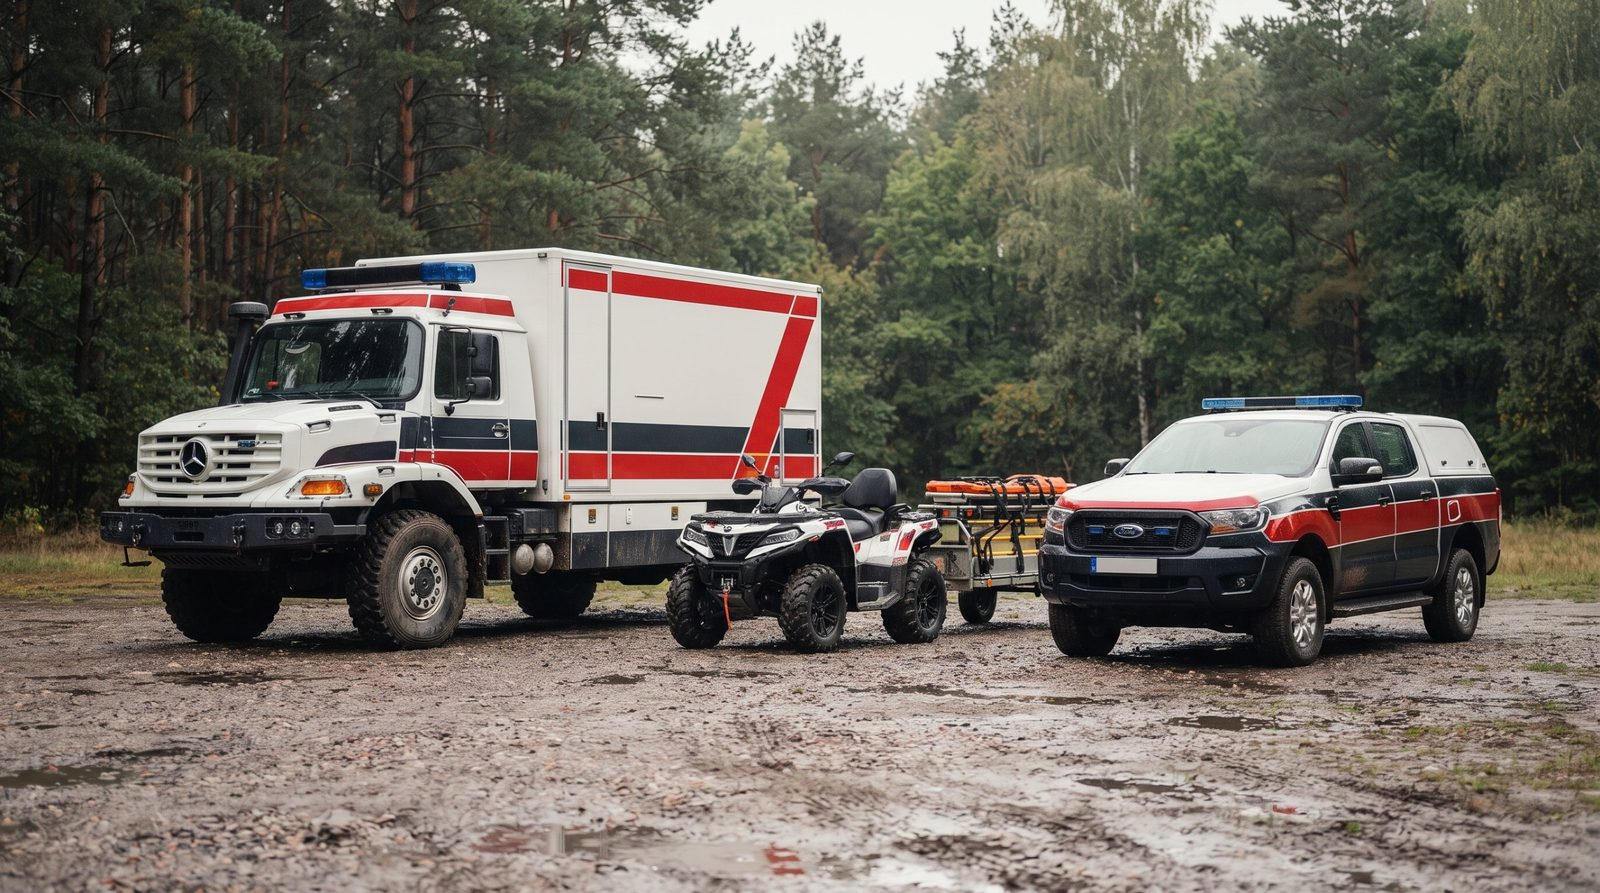
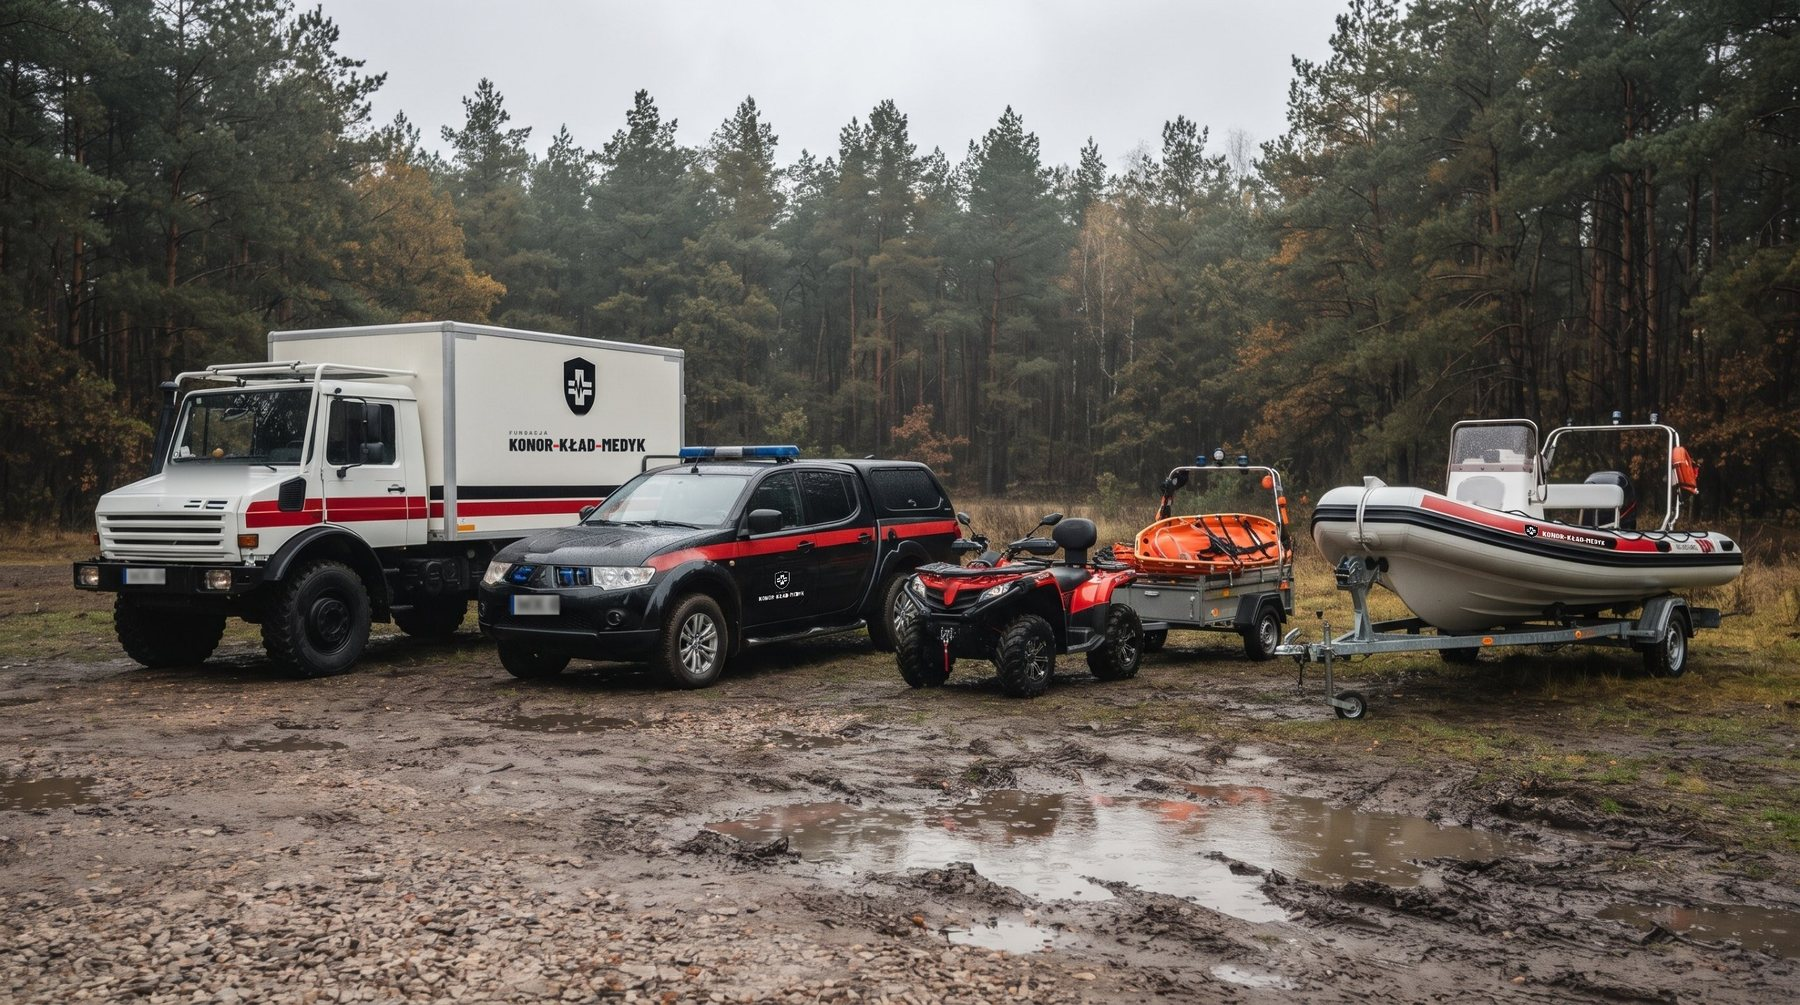
Nowe zdjęcia: karetka, wnętrze, pojazdy + dyskretne oznaczenie AI (podgląd, czeka na akceptację)
Claude-Session: https://claude.ai/code/session_01HMmEH39F33PDF7rDVMyxHn

diff --git a/szablon/index.html b/szablon/index.html
@@ -255,7 +255,7 @@ Inna kwota
 
 <!-- Priorytet -->
 <article style="background: #101215; color: #FFFFFF; border-radius: 22px; overflow: hidden; display: flex; flex-wrap: wrap;">
-<div style="flex: 1 1 480px; min-width: 0; min-height: clamp(260px, 62vw, 440px); position: relative;"><img src="{{karetka.zdjecie}}" alt="{{karetka.opis_zdjecia}}" style="position: absolute; inset: 0; width: 100%; height: 100%; object-fit: cover; object-position: 45% 55%; display: block;">{{#karetka.podpis_zdjecia}}<span style="position: absolute; left: 16px; bottom: 16px; font-size: 12px; font-weight: 700; letter-spacing: 0.08em; text-transform: uppercase; padding: 6px 10px; border-radius: 6px; background: rgba(16,18,21,0.72); color: #FFFFFF;">{{karetka.podpis_zdjecia}}</span>{{/karetka.podpis_zdjecia}}</div>
+<div style="flex: 1 1 480px; min-width: 0; min-height: clamp(260px, 62vw, 440px); position: relative;"><img src="{{karetka.zdjecie}}" alt="{{karetka.opis_zdjecia}}" style="position: absolute; inset: 0; width: 100%; height: 100%; object-fit: cover; object-position: 45% 55%; display: block;">{{#karetka.podpis_zdjecia}}<span style="position: absolute; right: 10px; bottom: 8px; font-size: 10px; font-weight: 500; letter-spacing: 0.02em; padding: 2px 6px; border-radius: 4px; background: rgba(16,18,21,0.38); color: rgba(255,255,255,0.82);">{{karetka.podpis_zdjecia}}</span>{{/karetka.podpis_zdjecia}}</div>
 <div style="flex: 1 1 400px; min-width: 0; padding: 40px; display: flex; flex-direction: column; gap: 18px;">
 <span style="align-self: flex-start; font-size: 13px; font-weight: 700; letter-spacing: 0.1em; text-transform: uppercase; padding: 6px 12px; border-radius: 6px; background: #FFD21F; color: #101215;">Priorytet</span>
 <h3 style="margin: 0; font-family: 'Barlow Condensed', sans-serif; font-weight: 800; font-size: 42px; line-height: 0.98; text-transform: uppercase;">{{karetka.tytul}}</h3>
@@ -284,7 +284,7 @@ Inna kwota
 <span style="font-size: 14px; color: #4D535C;">{{karetka.netto}}</span>
 </div>
 </div>
-{{#karetka.wnetrze_zdjecie}}<figure style="margin: 0; display: flex; flex-direction: column; gap: 10px;"><img src="{{karetka.wnetrze_zdjecie}}" alt="{{karetka.wnetrze_opis}}" loading="lazy" style="display: block; width: 100%; height: clamp(220px, 34vw, 420px); object-fit: cover; object-position: 50% 60%; border-radius: 16px;">{{#karetka.wnetrze_podpis}}<figcaption style="font-size: 14px; line-height: 1.5; color: #4D535C;">{{karetka.wnetrze_podpis}}</figcaption>{{/karetka.wnetrze_podpis}}</figure>{{/karetka.wnetrze_zdjecie}}
+{{#karetka.wnetrze_zdjecie}}<figure style="margin: 0; display: flex; flex-direction: column; gap: 10px;"><img src="{{karetka.wnetrze_zdjecie}}" alt="{{karetka.wnetrze_opis}}" loading="lazy" style="display: block; width: 100%; height: clamp(220px, 34vw, 420px); object-fit: cover; object-position: 50% 60%; border-radius: 16px;">{{#karetka.wnetrze_podpis}}<figcaption style="font-size: 11px; line-height: 1.4; color: #8F959D; text-align: right;">{{karetka.wnetrze_podpis}}</figcaption>{{/karetka.wnetrze_podpis}}</figure>{{/karetka.wnetrze_zdjecie}}
 <div style="display: grid; grid-template-columns: repeat(auto-fit, minmax(300px, 1fr)); gap: 18px;">{{#karetka.kosztorys}}
 
 <div style="border-radius: 16px; background: #F4F3EF; padding: 24px; display: flex; flex-direction: column; gap: 14px;">
@@ -311,7 +311,7 @@ Inna kwota
 <div style="display: grid; grid-template-columns: repeat(auto-fit, minmax(220px, 1fr)); gap: 18px;">{{#potrzeby.karty}}
 
 <article style="background: #FFFFFF; border-radius: 20px; padding: 28px; display: flex; flex-direction: column; gap: 16px;">
-{{#zdjecie}}<div style="position: relative;"><img src="{{zdjecie}}" alt="{{opis_zdjecia}}" style="display: block; width: 100%; height: 200px; {{#zdjecie_w_calosci}}object-fit: contain; background: #FFFFFF;{{/zdjecie_w_calosci}}{{^zdjecie_w_calosci}}object-fit: cover;{{/zdjecie_w_calosci}} border-radius: 12px;">{{#podpis_zdjecia}}<span style="position: absolute; left: 10px; bottom: 10px; font-size: 11px; font-weight: 700; letter-spacing: 0.08em; text-transform: uppercase; padding: 5px 8px; border-radius: 6px; background: rgba(16,18,21,0.72); color: #FFFFFF;">{{podpis_zdjecia}}</span>{{/podpis_zdjecia}}</div>{{/zdjecie}}{{^zdjecie}}<div style="height: 200px; border-radius: 12px; background: #F4F3EF; display: flex; align-items: center; justify-content: center;"><svg width="88" height="88" viewBox="0 0 24 24" fill="none" stroke="#D41F2B" stroke-width="1.3" stroke-linecap="round" stroke-linejoin="round" aria-hidden="true"><path d="M2 17V7h11v10"></path><path d="M13 10h4l4 4v3h-8"></path><circle cx="6.5" cy="17.5" r="1.8"></circle><circle cx="17" cy="17.5" r="1.8"></circle><path d="M7.5 9.5v4"></path><path d="M5.5 11.5h4"></path></svg></div>{{/zdjecie}}
+{{#zdjecie}}<div style="position: relative;"><img src="{{zdjecie}}" alt="{{opis_zdjecia}}" style="display: block; width: 100%; height: 200px; {{#zdjecie_w_calosci}}object-fit: contain; background: #FFFFFF;{{/zdjecie_w_calosci}}{{^zdjecie_w_calosci}}object-fit: cover;{{/zdjecie_w_calosci}} border-radius: 12px;">{{#podpis_zdjecia}}<span style="position: absolute; right: 10px; bottom: 8px; font-size: 10px; font-weight: 500; letter-spacing: 0.02em; padding: 2px 6px; border-radius: 4px; background: rgba(16,18,21,0.38); color: rgba(255,255,255,0.82);">{{podpis_zdjecia}}</span>{{/podpis_zdjecia}}</div>{{/zdjecie}}{{^zdjecie}}<div style="height: 200px; border-radius: 12px; background: #F4F3EF; display: flex; align-items: center; justify-content: center;"><svg width="88" height="88" viewBox="0 0 24 24" fill="none" stroke="#D41F2B" stroke-width="1.3" stroke-linecap="round" stroke-linejoin="round" aria-hidden="true"><path d="M2 17V7h11v10"></path><path d="M13 10h4l4 4v3h-8"></path><circle cx="6.5" cy="17.5" r="1.8"></circle><circle cx="17" cy="17.5" r="1.8"></circle><path d="M7.5 9.5v4"></path><path d="M5.5 11.5h4"></path></svg></div>{{/zdjecie}}
 <h3 style="margin: 0; font-family: 'Barlow Condensed', sans-serif; font-weight: 800; font-size: 28px; text-transform: uppercase;">{{tytul}}</h3>
 <ul style="margin: 0; padding: 0 0 0 18px; display: flex; flex-direction: column; gap: 6px; font-size: 15px; line-height: 1.45; color: #3F454D;">{{#pozycje}}
 <li>{{.}}</li>{{/pozycje}}
@@ -334,7 +334,7 @@ Inna kwota
 </div>
 <a href="#napisz" data-temat="Zamówienie szkolenia" style="align-self: flex-start; font-size: 16px; font-weight: 700; padding: 16px 24px; border-radius: 10px; background: #101215; color: #FFFFFF;">Zamów szkolenie</a>
 </div>
-<div style="flex: 1 1 420px; min-width: 0; height: 380px; position: relative;"><img src="{{szkolenia.zdjecie}}" alt="{{szkolenia.opis_zdjecia}}" style="width: 100%; height: 100%; object-fit: cover; object-position: 50% 15%; border-radius: 16px; display: block;">{{#szkolenia.podpis_zdjecia}}<span style="position: absolute; left: 14px; bottom: 14px; font-size: 12px; font-weight: 700; letter-spacing: 0.08em; text-transform: uppercase; padding: 5px 8px; border-radius: 6px; background: rgba(16,18,21,0.72); color: #FFFFFF;">{{szkolenia.podpis_zdjecia}}</span>{{/szkolenia.podpis_zdjecia}}</div>
+<div style="flex: 1 1 420px; min-width: 0; height: 380px; position: relative;"><img src="{{szkolenia.zdjecie}}" alt="{{szkolenia.opis_zdjecia}}" style="width: 100%; height: 100%; object-fit: cover; object-position: 50% 15%; border-radius: 16px; display: block;">{{#szkolenia.podpis_zdjecia}}<span style="position: absolute; right: 10px; bottom: 8px; font-size: 10px; font-weight: 500; letter-spacing: 0.02em; padding: 2px 6px; border-radius: 4px; background: rgba(16,18,21,0.38); color: rgba(255,255,255,0.82);">{{szkolenia.podpis_zdjecia}}</span>{{/szkolenia.podpis_zdjecia}}</div>
 </div>
 </section>
 
